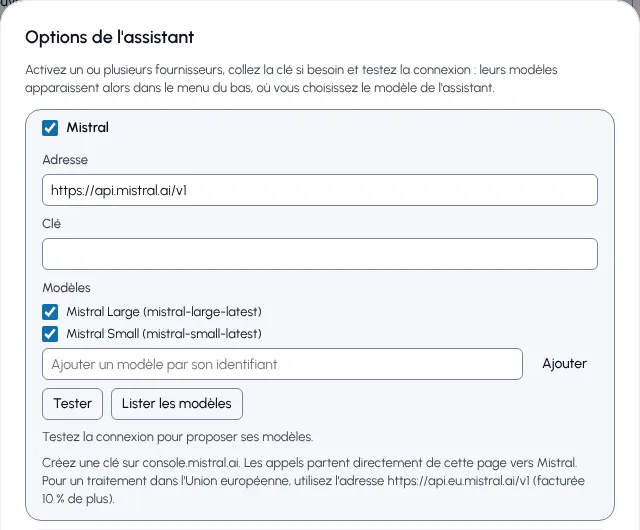
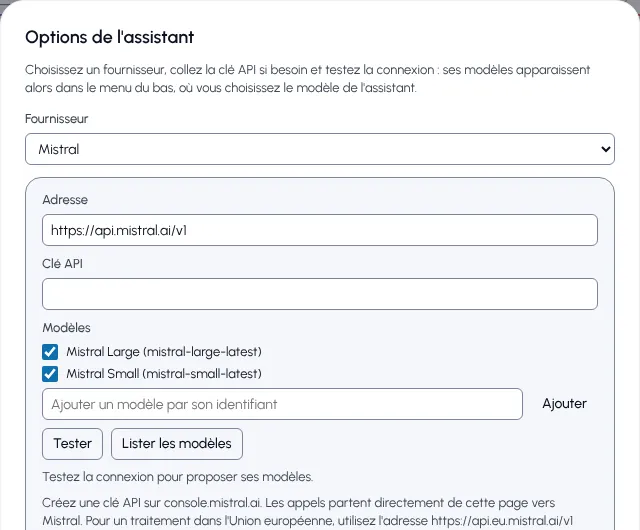
Use a single AI provider at a time in the assistant options
Replace the per-provider checkboxes with one Provider menu. Only the
chosen provider's settings are shown, and the model menu lists its
models only. Addresses and keys of the other providers are kept, so
switching back needs no new key. In the docker version, the models set
up on the server are one of the choices.

Saved settings move over on their own: the active provider becomes the
one of the model chosen before.

diff --git a/src/options-dialog.js b/src/options-dialog.js
@@ -1,5 +1,6 @@
-// Fenêtre Options de l'assistant : un bloc par fournisseur (adresse, clé,
-// modèles), un bouton Tester, un bouton Lister, et le modèle par défaut.
+// Fenêtre Options de l'assistant : le choix du fournisseur, son bloc (adresse, clé,
+// modèles, boutons Tester et Lister), et le modèle de l'assistant. Un seul fournisseur
+// est actif à la fois : les adresses et les clés des autres restent gardées.
 // Même fenêtre en ligne et en version docker ; seul le texte sur la vie privée change.
 
 import { PROVIDERS } from './ai/providers.js'
@@ -51,12 +52,17 @@ export function createOptionsDialog({ mode, test, onSave }) {
   dialog.innerHTML = `
     <form method="dialog">
       <h2 id="options-title">${T('Assistant options', "Options de l'assistant")}</h2>
-      <p class="hint">${T('Turn on one or more providers, paste the API key if needed and test the connection: their models then appear in the menu below, where you pick the model of the assistant.', 'Activez un ou plusieurs fournisseurs, collez la clé API si besoin et testez la connexion : leurs modèles apparaissent alors dans le menu du bas, où vous choisissez le modèle de l\'assistant.')}</p>
+      <p class="hint">${T('Choose a provider, paste the API key if needed and test the connection: its models then appear in the menu below, where you pick the model of the assistant.', 'Choisissez un fournisseur, collez la clé API si besoin et testez la connexion : ses modèles apparaissent alors dans le menu du bas, où vous choisissez le modèle de l\'assistant.')}</p>
+      <label class="field"><span>${T('Provider', 'Fournisseur')}</span><select id="options-provider">
+        ${PROVIDERS.map((p) => `<option value="${p.id}">${esc(p.id === 'compat' ? T('OpenAI-compatible', 'Compatible OpenAI') : p.label)}</option>`).join('')}
+      </select></label>
       <div class="providers">
+        <div class="provider server-block" data-id="server" hidden>
+          <p class="hint">${T('Models set up on the server, in mcp/.env. The server holds their keys.', 'Modèles réglés sur le serveur, dans mcp/.env. Le serveur garde leurs clés.')}</p>
+        </div>
         ${PROVIDERS.map(
           (p) => `
-        <fieldset class="provider" data-id="${p.id}">
-          <legend><label><input type="checkbox" class="p-enabled" /> ${esc(p.id === 'compat' ? T('OpenAI-compatible', 'Compatible OpenAI') : p.label)}</label></legend>
+        <div class="provider" data-id="${p.id}" hidden>
           <div class="p-body">
             ${p.customLabel ? `<label class="field"><span>${T('Display name', 'Nom affiché')}</span><input type="text" class="p-label" maxlength="60" placeholder="${T('For example: LiteLLM', 'Par exemple : LiteLLM')}" /></label>` : ''}
             <label class="field"><span>${T('Address', 'Adresse')}</span><input type="url" class="p-url" spellcheck="false" placeholder="${esc(p.baseUrl || 'http://localhost:4000/v1')}" /></label>
@@ -72,7 +78,7 @@ export function createOptionsDialog({ mode, test, onSave }) {
             </div>
             <p class="hint p-hint">${esc(HINTS[mode][p.id]).replaceAll('{origin}', esc(origin))}</p>
           </div>
-        </fieldset>`,
+        </div>`,
         ).join('')}
       </div>
       <label class="field default-model"><span>${T('Assistant model', 'Modèle de l\'assistant')}</span><select id="options-default"></select></label>
@@ -93,14 +99,17 @@ export function createOptionsDialog({ mode, test, onSave }) {
 
   let draft = null
   let serverModels = []
-  const blocks = new Map([...dialog.querySelectorAll('.provider')].map((el) => [el.dataset.id, el]))
+  const blocks = new Map([...dialog.querySelectorAll('.provider:not(.server-block)')].map((el) => [el.dataset.id, el]))
+  const serverBlock = dialog.querySelector('.server-block')
+  const providerSelect = dialog.querySelector('#options-provider')
+  // Choix « Modèles du serveur » : seulement si le serveur en propose (version docker).
+  const serverOption = new Option(T('Server models', 'Modèles du serveur'), 'server')
   const defaultSelect = dialog.querySelector('#options-default')
   const remember = dialog.querySelector('#options-remember')
 
   const read = (id) => {
     const el = blocks.get(id)
     const s = draft.providers[id]
-    s.enabled = el.querySelector('.p-enabled').checked
     s.baseUrl = el.querySelector('.p-url').value.trim()
     s.apiKey = el.querySelector('.p-key').value.trim()
     const label = el.querySelector('.p-label')
@@ -126,7 +135,7 @@ export function createOptionsDialog({ mode, test, onSave }) {
   }
 
   function renderDefault() {
-    const options = [...serverModels.map((m) => ({ ...m, providerLabel: `${m.providerLabel} ${T('(server)', '(serveur)')}` })), ...userModels(draft)]
+    const options = draft.active === 'server' ? serverModels : userModels(draft)
     defaultSelect.replaceChildren()
     const groups = new Map()
     for (const m of options) {
@@ -139,7 +148,7 @@ export function createOptionsDialog({ mode, test, onSave }) {
       }
       group.append(new Option(m.label, m.id))
     }
-    if (!options.length) defaultSelect.append(new Option(T('No model yet: turn on a provider and test its connection', 'Aucun modèle pour l\'instant : activez un fournisseur et testez sa connexion'), ''))
+    if (!options.length) defaultSelect.append(new Option(T('No model yet: test the connection of the provider', 'Aucun modèle pour l\'instant : testez la connexion du fournisseur'), ''))
     defaultSelect.value = options.some((m) => m.id === draft.defaultModel) ? draft.defaultModel : options[0]?.id || ''
     defaultSelect.disabled = !options.length
   }
@@ -147,12 +156,10 @@ export function createOptionsDialog({ mode, test, onSave }) {
   function renderBlock(id) {
     const el = blocks.get(id)
     const s = draft.providers[id]
-    el.querySelector('.p-enabled').checked = s.enabled
     el.querySelector('.p-url').value = s.baseUrl
     el.querySelector('.p-key').value = s.apiKey
     const label = el.querySelector('.p-label')
     if (label) label.value = s.label
-    el.classList.toggle('on', s.enabled)
     showStatus(id)
     renderModels(id)
   }
@@ -202,13 +209,12 @@ export function createOptionsDialog({ mode, test, onSave }) {
     }
   }
 
-  // État d'un bloc activé : connexion déjà testée, ou test à faire avant que ses modèles
+  // État d'un bloc : connexion déjà testée, ou test à faire avant que ses modèles
   // soient proposés.
   function showStatus(id) {
     const el = blocks.get(id)
     const s = draft.providers[id]
     const result = el.querySelector('.p-result')
-    if (!s.enabled) return showResult(result, null, '')
     if (s.verified) showResult(result, true, T('Connection tested.', 'Connexion testée.'))
     else showResult(result, null, T('Test the connection to offer its models.', 'Testez la connexion pour proposer ses modèles.'))
   }
@@ -218,13 +224,20 @@ export function createOptionsDialog({ mode, test, onSave }) {
     el.className = `p-result${ok === true ? ' ok' : ok === false ? ' failed' : ''}`
   }
 
+  // Affiche le bloc du fournisseur actif, et lui seul.
+  function showActive() {
+    providerSelect.value = draft.active
+    serverBlock.hidden = draft.active !== 'server'
+    for (const [id, el] of blocks) el.hidden = id !== draft.active
+  }
+
+  providerSelect.addEventListener('change', () => {
+    draft.active = providerSelect.value
+    showActive()
+    renderDefault()
+  })
+
   for (const [id, el] of blocks) {
-    el.querySelector('.p-enabled').addEventListener('change', (e) => {
-      read(id)
-      el.classList.toggle('on', e.target.checked)
-      showStatus(id)
-      renderDefault()
-    })
     for (const input of el.querySelectorAll('.p-url, .p-key, .p-label')) {
       input.addEventListener('input', () => {
         read(id)
@@ -279,7 +292,13 @@ export function createOptionsDialog({ mode, test, onSave }) {
     open(settings, { server = [] } = {}) {
       draft = structuredClone(settings)
       serverModels = server
+      if (server.length) providerSelect.prepend(serverOption)
+      else serverOption.remove()
+      // Sans choix enregistré (ou avec les modèles du serveur, absents ici) : ceux du
+      // serveur s'il en a, sinon le premier fournisseur de la liste.
+      if (!draft.active || (draft.active === 'server' && !server.length)) draft.active = server.length ? 'server' : PROVIDERS[0].id
       for (const id of blocks.keys()) renderBlock(id)
+      showActive()
       remember.checked = draft.remember
       renderDefault()
       dialog.showModal()

diff --git a/src/ai-settings.js b/src/ai-settings.js
@@ -26,15 +26,20 @@ function write(storage, key, value) {
   } catch {}
 }
 
-// Réglages par défaut : rien d'activé, Anthropic et OpenAI préremplis.
+// Fournisseur actif : un seul à la fois. « server » désigne les modèles réglés sur le
+// serveur (version docker). null : rien de choisi pour l'instant.
+const isProviderChoice = (id) => id === 'server' || PROVIDERS.some((p) => p.id === id)
+
+// Réglages par défaut : aucun fournisseur choisi, Anthropic et Mistral préremplis.
 export function defaultSettings() {
   return {
     remember: false,
+    active: null,
     defaultModel: null,
     providers: Object.fromEntries(
       PROVIDERS.map((p) => [
         p.id,
-        { enabled: false, verified: false, baseUrl: p.baseUrl, label: p.customLabel ? '' : p.label, models: p.models.map((m) => ({ ...m, on: true })), apiKey: '' },
+        { verified: false, baseUrl: p.baseUrl, label: p.customLabel ? '' : p.label, models: p.models.map((m) => ({ ...m, on: true })), apiKey: '' },
       ]),
     ),
   }
@@ -50,7 +55,6 @@ export function loadSettings() {
       const s = saved.providers?.[p.id]
       if (!s) continue
       const target = settings.providers[p.id]
-      target.enabled = !!s.enabled
       target.verified = !!s.verified
       if (typeof s.baseUrl === 'string') target.baseUrl = s.baseUrl
       if (typeof s.label === 'string' && p.customLabel) target.label = s.label
@@ -60,12 +64,23 @@ export function loadSettings() {
           .map((m) => ({ id: m.id, label: typeof m.label === 'string' && m.label ? m.label : m.id, on: !!m.on }))
       }
     }
+    settings.active = isProviderChoice(saved.active) ? saved.active : formerActive(saved)
   }
   const keys = read(settings.remember ? localStorage : sessionStorage, KEYS_KEY) || {}
   for (const p of PROVIDERS) {
     if (typeof keys[p.id] === 'string') settings.providers[p.id].apiKey = keys[p.id]
   }
   return settings
+}
+
+// Réglages enregistrés avant le choix unique, où plusieurs fournisseurs pouvaient être
+// cochés : le fournisseur actif devient celui du modèle choisi.
+function formerActive(saved) {
+  const model = typeof saved.defaultModel === 'string' ? saved.defaultModel : ''
+  const fromModel = model.match(/^user:([^:]+):/)?.[1]
+  if (fromModel && PROVIDERS.some((p) => p.id === fromModel)) return fromModel
+  if (model) return 'server'
+  return PROVIDERS.find((p) => saved.providers?.[p.id]?.enabled)?.id ?? null
 }
 
 export function saveSettings(settings) {
@@ -76,7 +91,7 @@ export function saveSettings(settings) {
     providers[p.id] = rest
     if (apiKey) keys[p.id] = apiKey
   }
-  write(localStorage, SETTINGS_KEY, { remember: settings.remember, defaultModel: settings.defaultModel, providers })
+  write(localStorage, SETTINGS_KEY, { remember: settings.remember, active: settings.active, defaultModel: settings.defaultModel, providers })
   // Les clés ne sont écrites qu'à un seul endroit : on efface l'autre.
   const hasKeys = Object.keys(keys).length > 0
   write(settings.remember ? localStorage : sessionStorage, KEYS_KEY, hasKeys ? keys : null)
@@ -90,12 +105,12 @@ export function forgetKeys(settings) {
   write(sessionStorage, KEYS_KEY, null)
 }
 
-// Un bloc est utilisable s'il est activé, a une adresse, une clé si besoin, et si
-// sa connexion a été testée avec succès (Tester ou Lister les modèles).
+// Un fournisseur est utilisable s'il est le fournisseur actif, a une adresse, une clé si
+// besoin, et si sa connexion a été testée avec succès (Tester ou Lister les modèles).
 export function isUsable(providerId, settings) {
   const def = PROVIDERS.find((p) => p.id === providerId)
   const s = settings.providers[providerId]
-  return !!(s.enabled && s.verified && s.baseUrl.trim() && (!def.needsKey || s.apiKey.trim()))
+  return !!(settings.active === providerId && s.verified && s.baseUrl.trim() && (!def.needsKey || s.apiKey.trim()))
 }
 
 export const providerLabel = (providerId, settings) =>
@@ -103,7 +118,7 @@ export const providerLabel = (providerId, settings) =>
   (providerId === 'compat' ? T('OpenAI-compatible', 'Compatible OpenAI') : PROVIDERS.find((p) => p.id === providerId)?.label) ||
   providerId
 
-// Modèles cochés des blocs utilisables, pour le menu du panneau.
+// Modèles cochés du fournisseur actif, s'il est utilisable.
 export function userModels(settings) {
   const list = []
   for (const p of PROVIDERS) {

diff --git a/src/chat-panel.js b/src/chat-panel.js
@@ -170,7 +170,7 @@ export function createChatPanel({ mode, chatUrl, bridge, tools }) {
   let checked = false
   let settings = loadSettings()
   let serverModels = [] // { id, label, provider, providerLabel }, envoyés par le serveur
-  let models = [] // serverModels puis modèles de la fenêtre Options
+  let models = [] // modèles du fournisseur actif : serverModels ou ceux de la fenêtre Options
   let currentId = '' // modèle de l'assistant, choisi dans la fenêtre Options
   // Discussion en cours : sur le serveur ({ id }) ou dans la page ({ messages }).
   // kind « server:anthropic », « local:openai »… : l'historique ne passe pas d'un format à l'autre.
@@ -225,10 +225,12 @@ export function createChatPanel({ mode, chatUrl, bridge, tools }) {
     return data.models
   }
 
-  // Modèles disponibles : ceux du serveur, puis ceux des fournisseurs testés dans
-  // Options. Le modèle de l'assistant se choisit dans Options ; le panneau l'affiche.
+  // Modèles du fournisseur actif choisi dans Options : ceux du serveur, ou ceux du
+  // fournisseur testé. Sans choix, ceux du serveur s'il en a. Le modèle de l'assistant
+  // se choisit dans Options ; le panneau l'affiche.
   function fillModels() {
-    models = [...serverModels.map((m) => ({ ...m, source: 'server' })), ...userModels(settings)]
+    const useServer = settings.active === 'server' || (!settings.active && serverModels.length > 0)
+    models = useServer ? serverModels.map((m) => ({ ...m, source: 'server' })) : userModels(settings)
     const has = (id) => id && models.some((m) => m.id === id)
     currentId = has(settings.defaultModel) ? settings.defaultModel : has(serverDefault) ? serverDefault : models[0]?.id || ''
     const model = currentModel()
@@ -244,8 +246,8 @@ export function createChatPanel({ mode, chatUrl, bridge, tools }) {
       add(
         'notice',
         mode === 'online'
-          ? T('To start, open Options and turn on a provider: Mistral, Anthropic, OpenAI, Ollama or an OpenAI-compatible server.', 'Pour commencer, ouvrez Options et activez un fournisseur : Mistral, Anthropic, OpenAI, Ollama ou un serveur compatible OpenAI.')
-          : T('Chat is not set up: open Options to set up a provider, or add MISTRAL_API_KEY, ANTHROPIC_API_KEY or OPENAI_MODELS to mcp/.env and restart the server.', "Le chat n'est pas configuré : ouvrez Options pour régler un fournisseur, ou ajoutez MISTRAL_API_KEY, ANTHROPIC_API_KEY ou OPENAI_MODELS dans mcp/.env puis relancez le serveur."),
+          ? T('To start, open Options and choose a provider: Mistral, Anthropic, OpenAI, Ollama or an OpenAI-compatible server.', 'Pour commencer, ouvrez Options et choisissez un fournisseur : Mistral, Anthropic, OpenAI, Ollama ou un serveur compatible OpenAI.')
+          : T('Chat is not set up: open Options to choose a provider, or add MISTRAL_API_KEY, ANTHROPIC_API_KEY or OPENAI_MODELS to mcp/.env and restart the server.', "Le chat n'est pas configuré : ouvrez Options pour choisir un fournisseur, ou ajoutez MISTRAL_API_KEY, ANTHROPIC_API_KEY ou OPENAI_MODELS dans mcp/.env puis relancez le serveur."),
       )
     } else if (!log.querySelector('.chat-msg:not(.notice)') && !log.querySelector('.welcome')) {
       add('notice', T('Describe a process and I will draw it on the canvas. Changes can be undone with Ctrl+Z, except the automatic layout.', `Décrivez un processus et je le dessine sur le canevas. Les modifications s'annulent avec Ctrl+Z, sauf la mise en page automatique.`)).classList.add('welcome')

diff --git a/src/theme/leylines.css b/src/theme/leylines.css
@@ -531,16 +531,11 @@ body #chat-model:disabled { opacity: 0.5; }
 #options-dialog .hint { color: var(--ink-muted); font-size: 13px; line-height: 18px; }
 #options-dialog .providers { display: flex; flex-direction: column; gap: var(--space-2); }
 #options-dialog .provider {
-  border: 1px solid var(--line); border-radius: var(--radius-md);
-  padding: 0 var(--space-4); margin: 0; min-width: 0; background: var(--surface);
+  border: 1px solid var(--line-strong); border-radius: var(--radius-md);
+  padding: var(--space-3) var(--space-4); min-width: 0; background: var(--surface);
 }
-#options-dialog .provider.on { border-color: var(--line-strong); }
-/* Légende dans la carte : la case et le nom sur la première ligne. */
-#options-dialog legend { float: left; width: 100%; padding: var(--space-2) 0; font-weight: 600; }
-#options-dialog legend + * { clear: both; }
-#options-dialog legend label { display: inline-flex; align-items: center; gap: var(--space-2); cursor: pointer; }
-#options-dialog .p-body { display: none; flex-direction: column; gap: var(--space-2); padding: 0 0 var(--space-3); }
-#options-dialog .provider.on .p-body { display: flex; }
+#options-dialog .provider[hidden] { display: none; }
+#options-dialog .p-body { display: flex; flex-direction: column; gap: var(--space-2); }
 #options-dialog .field { display: flex; flex-direction: column; gap: var(--space-1); font-size: 13px; font-weight: 500; color: var(--ink-muted); }
 #options-dialog input[type="text"], #options-dialog input[type="url"], #options-dialog input[type="password"], #options-dialog select {
   height: 32px; padding: 0 var(--space-2); min-width: 0;

diff --git a/aide.html b/aide.html
@@ -298,8 +298,8 @@
             </tbody>
           </table>
         </div>
-        <p>Collez la clé, cliquez sur <span class="ui">Tester</span>, puis choisissez le modèle. Les modèles d'un fournisseur sont proposés une fois sa connexion testée. Le panneau affiche le modèle utilisé.</p>
-        <figure><img src="/src/help/img/fr-options.webp" width="640" height="530" alt="Fenêtre Options de l'assistant, avec le fournisseur Mistral activé : adresse, clé API, modèles, boutons Tester et Lister les modèles." loading="lazy" /><figcaption>Options de l'assistant : Mistral activé, en attente de la clé.</figcaption></figure>
+        <p>Choisissez le fournisseur en haut de la fenêtre, collez la clé, cliquez sur <span class="ui">Tester</span>, puis choisissez le modèle. Les modèles du fournisseur sont proposés une fois sa connexion testée. Un seul fournisseur sert à la fois, et en changer n'efface pas la clé des autres. Le panneau affiche le modèle utilisé.</p>
+        <figure><img src="/src/help/img/fr-options.webp" width="640" height="530" alt="Fenêtre Options de l'assistant, avec le fournisseur Mistral choisi : adresse, clé API, modèles, boutons Tester et Lister les modèles." loading="lazy" /><figcaption>Options de l'assistant : Mistral choisi, en attente de la clé.</figcaption></figure>
 
         <h3>2. Décrire le processus</h3>
         <p>Écrivez comme vous l'expliqueriez à un collègue : qui fait quoi, dans quel ordre, avec quelles décisions. L'assistant répond dans la langue de votre message. Par exemple :</p>

diff --git a/help.html b/help.html
@@ -298,8 +298,8 @@
             </tbody>
           </table>
         </div>
-        <p>Paste the key, click <span class="ui">Test</span>, then choose the model. A provider's models are offered once its connection is tested. The panel shows which model is in use.</p>
-        <figure><img src="/src/help/img/en-options.webp" width="640" height="530" alt="Assistant options window with the Mistral provider turned on: address, API key, models, Test and List models buttons." loading="lazy" /><figcaption>Assistant options: Mistral turned on, waiting for the key.</figcaption></figure>
+        <p>Choose the provider at the top of the window, paste the key, click <span class="ui">Test</span>, then choose the model. The provider's models are offered once its connection is tested. One provider is used at a time, and switching does not erase the keys of the others. The panel shows which model is in use.</p>
+        <figure><img src="/src/help/img/en-options.webp" width="640" height="530" alt="Assistant options window with the Mistral provider chosen: address, API key, models, Test and List models buttons." loading="lazy" /><figcaption>Assistant options: Mistral chosen, waiting for the key.</figcaption></figure>
 
         <h3>2. Describe the process</h3>
         <p>Write it the way you would explain it to a colleague: who does what, in which order, with which decisions. The assistant answers in the language of your message. For example:</p>
